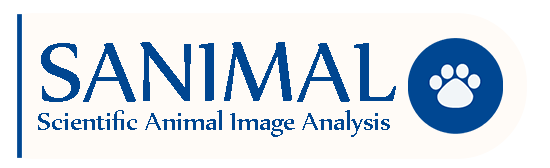
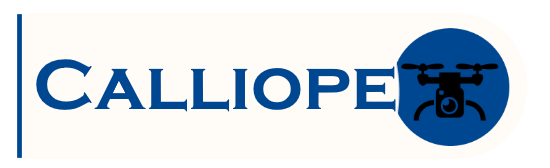
Renaming files and using config files

Changed region(s): [[0.0618, 0.1488, 0.9273, 0.8929]]

diff --git a/Calliope/src/main/java/model/elasticsearch/ElasticSearchConnectionManager.java b/Calliope/src/main/java/model/elasticsearch/ElasticSearchConnectionManager.java
@@ -14,6 +14,7 @@ import model.location.Location;
 import model.query.ElasticSearchQuery;
 import model.species.Species;
 import model.species.SpeciesEntry;
+import model.util.SensitiveConfigurationManager;
 import model.util.SettingsData;
 import org.apache.commons.collections4.ListUtils;
 import org.apache.commons.lang.exception.ExceptionUtils;
@@ -55,10 +56,6 @@ import java.util.stream.Collectors;
 
 public class ElasticSearchConnectionManager
 {
-	// The IP of the elastic search index
-	private static final String ELASTIC_SEARCH_HOST = "128.196.142.26";
-	// The port of the elastic search index
-	private static final Integer ELASTIC_SEARCH_PORT = 9200;
 	// The scheme used to connect to the elastic search index
 	private static final String ELASTIC_SEARCH_SCHEME = "http";
 
@@ -115,10 +112,10 @@ public class ElasticSearchConnectionManager
 	/**
 	 * The constructor initializes the elastic search
 	 */
-	public ElasticSearchConnectionManager()
+	public ElasticSearchConnectionManager(SensitiveConfigurationManager configurationManager)
 	{
 		// Establish a connection to the elastic search server
-		this.elasticSearchClient = new RestHighLevelClient(RestClient.builder(new HttpHost(ELASTIC_SEARCH_HOST, ELASTIC_SEARCH_PORT, ELASTIC_SEARCH_SCHEME)));
+		this.elasticSearchClient = new RestHighLevelClient(RestClient.builder(new HttpHost(configurationManager.getElasticSearchHost(), configurationManager.getElasticSearchPort(), ELASTIC_SEARCH_SCHEME)));
 		this.elasticSearchSchemaManager = new ElasticSearchSchemaManager();
 	}
 

diff --git a/Calliope/src/main/java/model/CalliopeData.java b/Calliope/src/main/java/model/CalliopeData.java
@@ -46,6 +46,9 @@ public class CalliopeData
 		return CalliopeData.INSTANCE;
 	}
 
+	// The sensitive data configuration file so we don't put up sensitive info on Github
+	private SensitiveConfigurationManager sensitiveConfigurationManager = new SensitiveConfigurationManager();
+
 	// A global list of species
 	private final ObservableList<Species> speciesList;
 	private AtomicBoolean needSpeciesSync = new AtomicBoolean(false);
@@ -79,7 +82,7 @@ public class CalliopeData
 	private CyVerseConnectionManager cyConnectionManager = new CyVerseConnectionManager();
 
 	// The connection manager used to manage the database
-	private ElasticSearchConnectionManager esConnectionManager = new ElasticSearchConnectionManager();
+	private ElasticSearchConnectionManager esConnectionManager = new ElasticSearchConnectionManager(this.sensitiveConfigurationManager);
 
 	// Preferences used to save the user's username
 	private final Preferences calliopePreferences = Preferences.userNodeForPackage(CalliopeData.class);
@@ -496,4 +499,9 @@ public class CalliopeData
 	}
 
 	public QueryEngine getQueryEngine() { return this.queryEngine; }
+
+	public SensitiveConfigurationManager getSensitiveConfigurationManager()
+	{
+		return sensitiveConfigurationManager;
+	}
 }

diff --git a/Calliope/src/main/java/model/util/SensitiveConfigurationManager.java b/Calliope/src/main/java/model/util/SensitiveConfigurationManager.java
@@ -1,0 +1,40 @@
+package model.util;
+
+import model.CalliopeData;
+import org.apache.commons.configuration2.Configuration;
+import org.apache.commons.configuration2.builder.fluent.Configurations;
+import org.apache.commons.configuration2.ex.ConfigurationException;
+import org.apache.commons.lang.exception.ExceptionUtils;
+
+import java.io.File;
+
+public class SensitiveConfigurationManager
+{
+	private String elasticSearchHost;
+	private Integer elasticSearchPort;
+
+	public SensitiveConfigurationManager()
+	{
+		Configurations configs = new Configurations();
+		try
+		{
+			Configuration configuration = configs.properties(new File("calliope.properties"));
+			this.elasticSearchHost = configuration.getString("elasticSearch.host");
+			this.elasticSearchPort = configuration.getInteger("elasticSearch.port", 9200);
+		}
+		catch (ConfigurationException e)
+		{
+			CalliopeData.getInstance().getErrorDisplay().notify("Error parsing configuration file, elastic search database connection could not be established!\n" + ExceptionUtils.getStackTrace(e));
+		}
+	}
+
+	public String getElasticSearchHost()
+	{
+		return this.elasticSearchHost;
+	}
+
+	public Integer getElasticSearchPort()
+	{
+		return this.elasticSearchPort;
+	}
+}

diff --git a/Calliope/src/main/java/controller/CalliopeHomeController.java b/Calliope/src/main/java/controller/CalliopeHomeController.java
@@ -120,23 +120,6 @@ public class CalliopeHomeController implements Initializable
 	}
 
 	/**
-	 * When the user clicks the UA CS logo
-	 *
-	 * @param mouseEvent consumed
-	 */
-	public void showCSWebsite(MouseEvent mouseEvent)
-	{
-		try
-		{
-			Desktop.getDesktop().browse(new URI("https://www.cs.arizona.edu"));
-		}
-		catch (IOException | URISyntaxException ignored)
-		{
-		}
-		mouseEvent.consume();
-	}
-
-	/**
 	 * When the user clicks the UA SNRE logo
 	 *
 	 * @param mouseEvent consumed
@@ -146,23 +129,6 @@ public class CalliopeHomeController implements Initializable
 		try
 		{
 			Desktop.getDesktop().browse(new URI("https://snre.arizona.edu/"));
-		}
-		catch (IOException | URISyntaxException ignored)
-		{
-		}
-		mouseEvent.consume();
-	}
-
-	/**
-	 * When the user clicks the UA Wildcat Research logo
-	 *
-	 * @param mouseEvent consumed
-	 */
-	public void showWildcatResearchWebsite(MouseEvent mouseEvent)
-	{
-		try
-		{
-			Desktop.getDesktop().browse(new URI("https://wildcatresearch.arizona.edu/"));
 		}
 		catch (IOException | URISyntaxException ignored)
 		{

diff --git a/Calliope/src/main/java/controller/Calliope.java b/Calliope/src/main/java/controller/Calliope.java
@@ -35,8 +35,8 @@ public class Calliope extends Application
 
         // Put the scene on the stage
         primaryStage.setScene(scene);
-        primaryStage.getIcons().add(new Image("images/mainMenu/paw.png"));
-        primaryStage.setTitle("Scientific Animal Image Analysis (CALLIOPE)");
+        primaryStage.getIcons().add(new Image("images/mainMenu/drone.png"));
+        primaryStage.setTitle("Calliope");
         // When we click exit...
         primaryStage.setOnCloseRequest(event ->
         {
